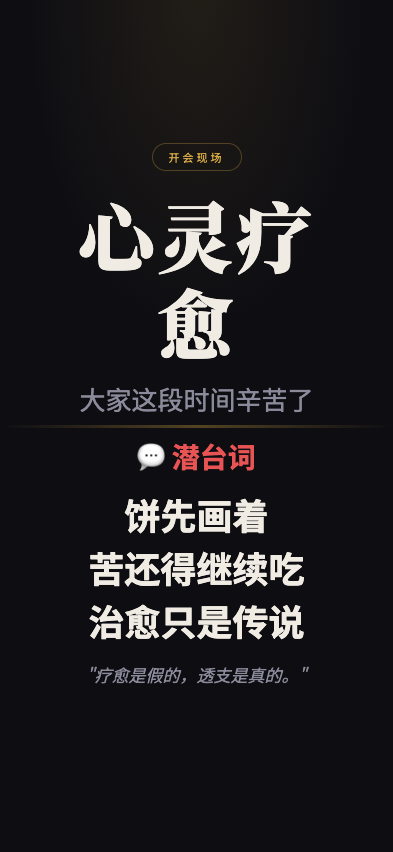
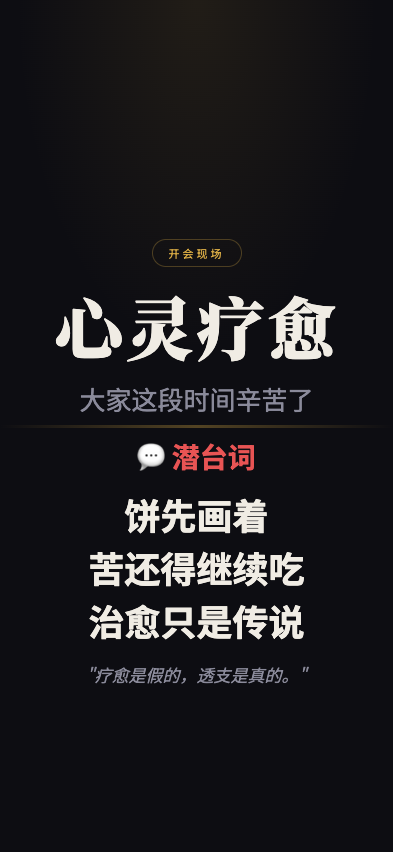
feat: 职场生存法则 screenshot - xinlingliaoyu

Changed region(s): [[0.1527, 0.1526, 0.855, 0.4272]]

diff --git a/wuliao-tools/tools/biz-speak/scenes/xinlingliaoyu.html b/wuliao-tools/tools/biz-speak/scenes/xinlingliaoyu.html
@@ -31,7 +31,7 @@
 
   .top { flex:1; display:flex; flex-direction:column; align-items:center; justify-content:flex-end; padding:4px 28px 8px; position:relative; z-index:1; }
   .tag { font-size:11px; letter-spacing:3px; color:var(--gold); border:1px solid rgba(212,168,67,0.3); padding:5px 16px; border-radius:50px; margin-bottom:20px; }
-  .main-title { font-family:'Noto Serif SC'; font-size:76px; font-weight:900; text-align:center; line-height:1.15; letter-spacing:3px; max-width:92%; overflow-wrap:break-word; }
+  .main-title { font-family:'Noto Serif SC'; font-size:68px; font-weight:900; text-align:center; line-height:1.15; letter-spacing:3px; min-width:0; overflow-wrap:break-word; }
   .sub-title { font-size:26px; color:var(--text-dim); text-align:center; margin-top:14px; }
 
   .divider { width:100%; height:3px; background:linear-gradient(90deg,transparent,var(--gold),transparent); opacity:0.35; flex-shrink:0; position:relative; z-index:1; }
